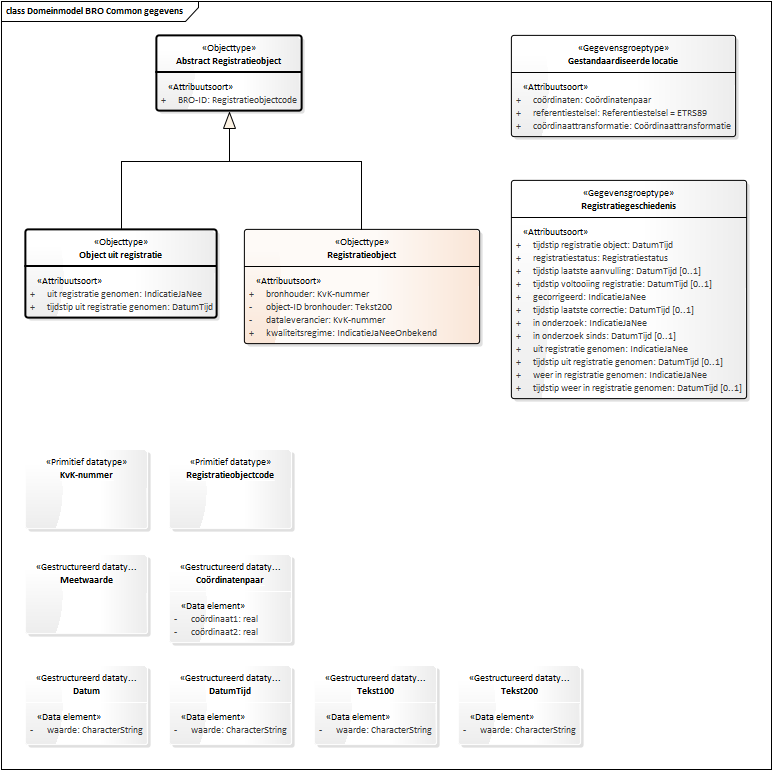
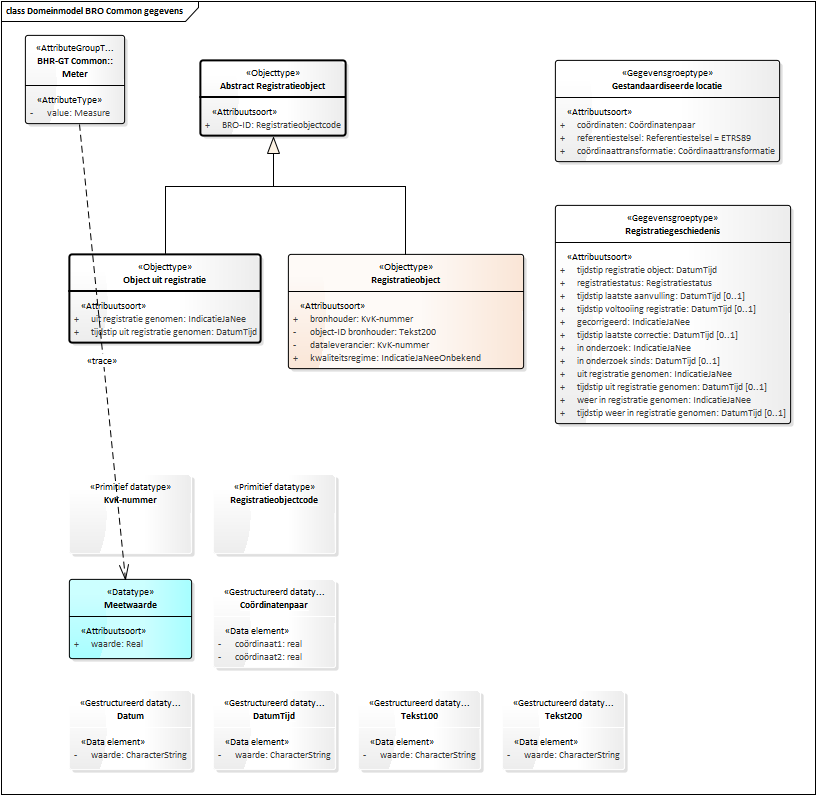
Conceptualmodel-GeotechnischbooronderzoekBHR-GT-1.0-0-20180713-20180811-122438

diff --git a/data/BHR-GT-cat.html b/data/BHR-GT-cat.html
@@ -1,10 +1,10 @@
 <h2>Catalogus</h2>
 <p class="note" title="Over deze catalogus">
    Deze catalogus is automatisch samengesteld op basis van het UML model 
-   "Geotechnisch booronderzoek (BHR-GT)" door 1.46.3 op August 11, 2018 at 09:39:37.
+   "Geotechnisch booronderzoek (BHR-GT)" door 1.46.3 op August 11, 2018 at 10:24:37.
    <br>
    Wanneer je technische fouten of onvolkomenheden aantreft, geef dit dan door aan <i>arjan@linkedmatter.com</i> en geef de code 
-   <i>"Conceptualmodel-GeotechnischbooronderzoekBHR-GT-1.0-0-20180713-20180811-113938"</i> door. 
+   <i>"Conceptualmodel-GeotechnischbooronderzoekBHR-GT-1.0-0-20180713-20180811-122438"</i> door. 
    
 </p><a class="anchor" name="global_package_DomeinmodelBROCommon"></a><section id="global_package_DomeinmodelBROCommon">
    <h3>Domein Domeinmodel BRO Common</h3>
@@ -13,17 +13,16 @@
          <area shape="rect" coords="25,163,369,35" alt="" href="#graph_EAID_9706B2DB_6169_4362_8B01_A56EAA256C63"></map><p><b>Domeinmodel BRO Common berichten</b></p>
    </div>
    <div class="imageinfo "><img src="data/Images/EAID_1C22F185_7D30_49f7_AAE8_D74070FE5B68.png" usemap="#imagemap-EAID_1C22F185_7D30_49f7_AAE8_D74070FE5B68"><map name="imagemap-EAID_1C22F185_7D30_49f7_AAE8_D74070FE5B68">
-         <area shape="rect" coords="156,111,302,35" alt="" href="#graph_EAID_4A54DAD2_C13E_430d_B9DC_E043A59DC753">
-         <area shape="rect" coords="458,745,581,665" alt="" href="#graph_EAID_1924B9C3_D571_4abb_B27E_2208F37EF832">
-         <area shape="rect" coords="314,745,437,665" alt="" href="#graph_EAID_4588A7E1_6802_4ae9_B0A6_73F7847739BB">
-         <area shape="rect" coords="169,529,292,449" alt="" href="#graph_EAID_93C0AD25_0254_4f38_94CC_27E233062A44">
-         <area shape="rect" coords="25,634,148,554" alt="" href="#graph_EAID_25F322D9_26D9_4965_AC5A_1DC5898A2852">
-         <area shape="rect" coords="25,529,148,449" alt="" href="#graph_EAID_4BE1D7A1_E440_4f6e_A685_5C36E7E7FE44">
-         <area shape="rect" coords="169,745,292,665" alt="" href="#graph_EAID_320827CA_C4C1_4896_AAD7_67BE6E8167C0">
-         <area shape="rect" coords="25,745,148,665" alt="" href="#graph_EAID_F7EDCF5D_C0A6_404c_8F7B_8F999C0E070D">
-         <area shape="rect" coords="169,643,292,554" alt="" href="#graph_EAID_66E05A9A_45F7_4e0c_9AD2_0E536EABF918">
-         <area shape="rect" coords="244,344,480,229" alt="" href="#graph_EAID_FCF89EBC_A4FE_40ba_9091_EF657D2D163A">
-         <area shape="rect" coords="25,318,217,229" alt="" href="#graph_EAID_1AB56FF3_EA62_4f44_9746_C007497E7745"></map><p><b>Domeinmodel BRO Common gegevens</b></p>
+         <area shape="rect" coords="200,136,346,60" alt="" href="#graph_EAID_4A54DAD2_C13E_430d_B9DC_E043A59DC753">
+         <area shape="rect" coords="502,770,625,690" alt="" href="#graph_EAID_1924B9C3_D571_4abb_B27E_2208F37EF832">
+         <area shape="rect" coords="358,770,481,690" alt="" href="#graph_EAID_4588A7E1_6802_4ae9_B0A6_73F7847739BB">
+         <area shape="rect" coords="213,554,336,474" alt="" href="#graph_EAID_93C0AD25_0254_4f38_94CC_27E233062A44">
+         <area shape="rect" coords="69,554,192,474" alt="" href="#graph_EAID_4BE1D7A1_E440_4f6e_A685_5C36E7E7FE44">
+         <area shape="rect" coords="213,770,336,690" alt="" href="#graph_EAID_320827CA_C4C1_4896_AAD7_67BE6E8167C0">
+         <area shape="rect" coords="69,770,192,690" alt="" href="#graph_EAID_F7EDCF5D_C0A6_404c_8F7B_8F999C0E070D">
+         <area shape="rect" coords="213,668,336,579" alt="" href="#graph_EAID_66E05A9A_45F7_4e0c_9AD2_0E536EABF918">
+         <area shape="rect" coords="288,369,524,254" alt="" href="#graph_EAID_FCF89EBC_A4FE_40ba_9091_EF657D2D163A">
+         <area shape="rect" coords="69,343,261,254" alt="" href="#graph_EAID_1AB56FF3_EA62_4f44_9746_C007497E7745"></map><p><b>Domeinmodel BRO Common gegevens</b></p>
    </div>
    <div class="imageinfo "><img src="data/Images/EAID_017A2C66_9B5F_4e00_8C87_D97161B3A8D8.png" usemap="#imagemap-EAID_017A2C66_9B5F_4e00_8C87_D97161B3A8D8"><map name="imagemap-EAID_017A2C66_9B5F_4e00_8C87_D97161B3A8D8">
          <area shape="rect" coords="413,408,513,306" alt="" href="#graph_EAID_41F038F1_A2AA_427d_9299_9F40C0080075">
@@ -749,48 +748,6 @@
             </table>
             
          </section>
-         
-      </section>
-      <a class="anchor" name="graph_EAID_25F322D9_26D9_4965_AC5A_1DC5898A2852"></a><a class="anchor" name="global_class_DomeinmodelBROCommon_Meetwaarde"></a><section id="global_class_DomeinmodelBROCommon_Meetwaarde">
-         <h5>Gestructureerd datatype Meetwaarde</h5>
-         
-         <table>
-            <colgroup width="30%"></colgroup>
-            <colgroup width="70%"></colgroup>
-            <tbody>
-               <tr>
-                  <th>Naam</th>
-                  <td>Meetwaarde</td>
-               </tr>
-               <tr>
-                  <th>Herkomst</th>
-                  <td>BRO</td>
-               </tr>
-               <tr>
-                  <th>Definitie</th>
-                  <td>Het domein meetwaarde wordt in de basisregistratie ondergrond gebruikt voor gegevens
-                     die gemeten, berekend of anderszins bepaald zijn. Het is een getal en bij het getal
-                     hoort een eenheid. De basisregistratie ondergrond gebruikt voor de eenheden de codes
-                     uit het UCUM (Unified Code for Units of Measure)-systeem. In bijzondere gevallen is
-                     de eenheid dimensieloos.
-                  </td>
-               </tr>
-               <tr>
-                  <th>Toelichting</th>
-                  <td>Het getal is altijd een rationaal getal, een getal met een decimaal scheidingsteken.
-                     Door het scheidingteken krijgt het een opbouw. Het aantal cijfers voor het scheidingsteken
-                     is variabel maar begrensd. Het aantal cijfers achter het scheidingsteken ligt vast.
-                     Gewoonlijk wordt niet alleen de opbouw van het getal benoemd, maar wordt het domein
-                     verder ingeperkt door een bereik te specificeren. Het bereik geeft de minimale en
-                     de maximale waarde aan die een attribuut kan hebben.
-                     Wanneer een attribuut een domein van het type meetwaarde heeft wordt de opbouw, de
-                     eenheid en indien van toepassing het bereik gegeven. De opbouw wordt aangeduid als
-                     N.N waarde. N staat voor het maximum aantal cijfers voor, resp. het aantal cijfers
-                     achter het scheidingsteken.
-                  </td>
-               </tr>
-            </tbody>
-         </table>
          
       </section>
       <a class="anchor" name="graph_EAID_1924B9C3_D571_4abb_B27E_2208F37EF832"></a><a class="anchor" name="global_class_DomeinmodelBROCommon_Tekst200"></a><section id="global_class_DomeinmodelBROCommon_Tekst200">
@@ -2112,7 +2069,6 @@
          </section>
          
       </section>
-      
       <a class="anchor" name="detail_class_DomeinmodelBROCommon_Tekst200"></a><section id="detail_class_DomeinmodelBROCommon_Tekst200">
          <h6>Gestructureerd datatype Tekst200</h6>
          <a class="anchor" name="detail_attribute_DomeinmodelBROCommon_Tekst200_waarde"></a><section id="detail_attribute_DomeinmodelBROCommon_Tekst200_waarde"><strong>Data element details <a href="#global_class_DomeinmodelBROCommon_Tekst200">Tekst200</a> waarde</strong>
